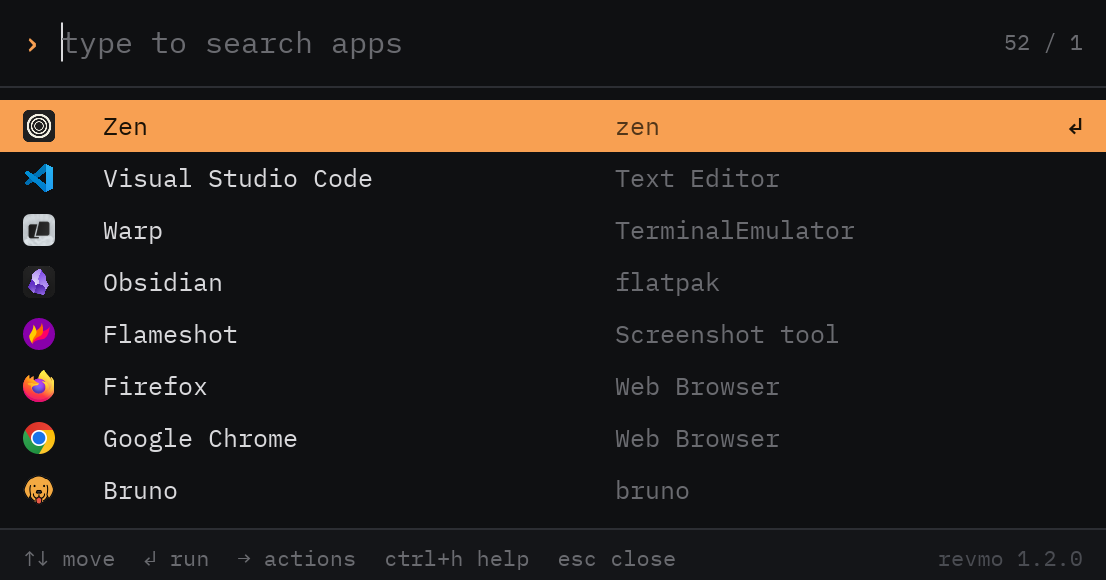
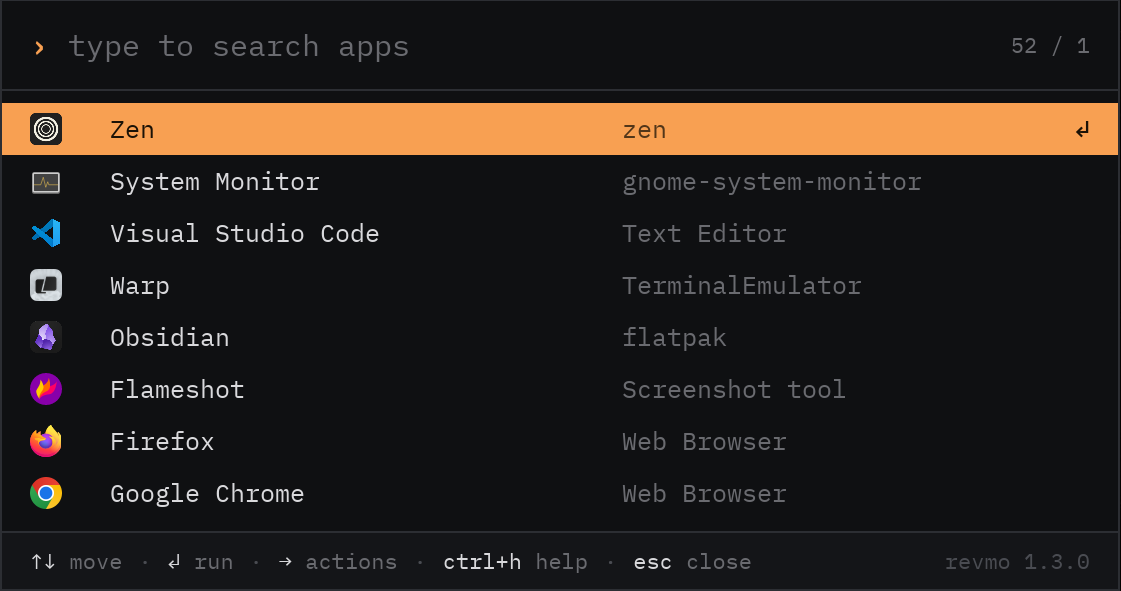
fix theme issues (#14)
* general fixes

* update version

diff --git a/src/theme.rs b/src/theme.rs
@@ -145,7 +145,8 @@ impl Colors {
             background,
             surface: get("Surface", shade(0.03)),
             surface_strong: get("SurfaceStrong", shade(0.07)),
-            frame: get("Frame", border),
+            // Dividers left out still leave the outline.
+            frame: get("Frame", if border.a == 0.0 { shade(0.14) } else { border }),
             border,
             border_strong: get("BorderStrong", shade(0.21)),
             text,
@@ -414,13 +415,25 @@ pub fn parse(contents: &str, fallback_name: &str) -> Result<ThemeDef, String> {
         .group(GROUP)
         .ok_or_else(|| format!("no [{GROUP}] group"))?;
     for key in KEYS {
-        if let Some(value) = group.raw(key)
-            && parse_color(value).is_none()
-        {
-            return Err(format!("{key}={value} is not a #rrggbb color"));
+        let Some(value) = group.raw(key) else {
+            continue;
+        };
+        if is_none(value) && key == "Background" {
+            return Err(
+                "Background can't be none; your compositor makes windows see-through".into(),
+            );
+        }
+        if !is_none(value) && parse_color(value).is_none() {
+            return Err(format!("{key}={value} is not a #rrggbb color or none"));
         }
     }
-    let given = |key: &str| group.raw(key).and_then(parse_color);
+    let given = |key: &str| {
+        let value = group.raw(key)?;
+        match is_none(value) {
+            true => Some(Color::TRANSPARENT),
+            false => parse_color(value),
+        }
+    };
     let required = |key: &str| given(key).ok_or_else(|| format!("{key} is missing"));
     // The window is opaque, so a see-through background would only come out
     // darker; its alpha is ignored.
@@ -436,6 +449,13 @@ pub fn parse(contents: &str, fallback_name: &str) -> Result<ThemeDef, String> {
         .filter(|n| !n.is_empty())
         .unwrap_or_else(|| fallback_name.trim().to_string());
     Ok(ThemeDef::new(name, colors))
+}
+
+/// `none` or `transparent`: not drawn at all, so the background shows in
+/// its place. Any color but the background can be.
+fn is_none(value: &str) -> bool {
+    let value = value.trim();
+    value.eq_ignore_ascii_case("none") || value.eq_ignore_ascii_case("transparent")
 }
 
 /// `#rrggbb` or `#rrggbbaa`.
@@ -529,6 +549,22 @@ mod tests {
     }
 
     #[test]
+    fn none_leaves_a_fill_out() {
+        let theme = parse(
+            "[Theme]\nBackground=#000000\nText=#ffffff\nAccent=#ff0000\nBorder=None\nSurface=transparent\nSelection=none",
+            "x",
+        )
+        .unwrap();
+        let c = theme.colors();
+        assert_eq!(c.border, Color::TRANSPARENT);
+        assert_eq!(c.surface, Color::TRANSPARENT);
+        assert_eq!(c.selection, Color::TRANSPARENT);
+        // No dividers still leaves the outline.
+        assert_eq!(c.frame.a, 1.0);
+        assert_eq!(c.background, rgb(0x000000));
+    }
+
+    #[test]
     fn rejects_bad_files() {
         assert!(parse("[Theme]\nBackground=#000000\nText=#ffffff", "x").is_err());
         assert!(
@@ -540,6 +576,8 @@ mod tests {
         );
         let bad_optional = "[Theme]\nBackground=#000000\nText=#ffffff\nAccent=#ff0000\nBorder=red";
         assert!(parse(bad_optional, "x").is_err());
+        let no_background = "[Theme]\nBackground=none\nText=#ffffff\nAccent=#ff0000";
+        assert!(parse(no_background, "x").is_err());
         assert!(parse("Background=#000000", "x").is_err());
     }
 

diff --git a/src/bundled_themes.rs b/src/bundled_themes.rs
@@ -104,28 +104,6 @@ pub const BUNDLED: [Bundled; 22] = [
         ],
     },
     Bundled {
-        name: "Dark",
-        background: 0x2b2d31,
-        text: 0xe6e6e6,
-        accent: 0xe0e3ff,
-        other: &[
-            ("Surface", 0x323539),
-            ("SurfaceStrong", 0x3c3f45),
-            ("Frame", 0x43474e),
-            ("Border", 0x43474e),
-            ("BorderStrong", 0x50545d),
-            ("TextDim", 0x979ba4),
-            ("TextMuted", 0x888a90),
-            ("TextFaint", 0x5d626d),
-            ("OnAccent", 0x2b2d31),
-            ("Selection", 0x5865f2),
-            ("OnSelection", 0xffffff),
-            ("Danger", 0xffc14e),
-            ("Success", 0x12664f),
-            ("Highlight", 0xffc14e),
-        ],
-    },
-    Bundled {
         name: "Dracula",
         background: 0x282a36,
         text: 0xf8f8f2,
@@ -214,6 +192,50 @@ pub const BUNDLED: [Bundled; 22] = [
         ],
     },
     Bundled {
+        name: "Iced Dark",
+        background: 0x2b2d31,
+        text: 0xe6e6e6,
+        accent: 0xe0e3ff,
+        other: &[
+            ("Surface", 0x323539),
+            ("SurfaceStrong", 0x3c3f45),
+            ("Frame", 0x43474e),
+            ("Border", 0x43474e),
+            ("BorderStrong", 0x50545d),
+            ("TextDim", 0x979ba4),
+            ("TextMuted", 0x888a90),
+            ("TextFaint", 0x5d626d),
+            ("OnAccent", 0x2b2d31),
+            ("Selection", 0x5865f2),
+            ("OnSelection", 0xffffff),
+            ("Danger", 0xffc14e),
+            ("Success", 0x12664f),
+            ("Highlight", 0xffc14e),
+        ],
+    },
+    Bundled {
+        name: "Iced Light",
+        background: 0xffffff,
+        text: 0x000000,
+        accent: 0x5865f2,
+        other: &[
+            ("Surface", 0xf5f5f5),
+            ("SurfaceStrong", 0xe8e8e8),
+            ("Frame", 0xdedede),
+            ("Border", 0xdedede),
+            ("BorderStrong", 0xcecece),
+            ("TextDim", 0x1a1a1a),
+            ("TextMuted", 0x7d7d7d),
+            ("TextFaint", 0xb1b1b1),
+            ("OnAccent", 0xffffff),
+            ("Selection", 0x5865f2),
+            ("OnSelection", 0xffffff),
+            ("Danger", 0xc3423f),
+            ("Success", 0x12664f),
+            ("Highlight", 0x12664f),
+        ],
+    },
+    Bundled {
         name: "Kanagawa Dragon",
         background: 0x181616,
         text: 0xc5c9c5,
@@ -277,28 +299,6 @@ pub const BUNDLED: [Bundled; 22] = [
             ("Danger", 0xff5d62),
             ("Success", 0x98bb6c),
             ("Highlight", 0xff9e3b),
-        ],
-    },
-    Bundled {
-        name: "Light",
-        background: 0xffffff,
-        text: 0x000000,
-        accent: 0x5865f2,
-        other: &[
-            ("Surface", 0xf5f5f5),
-            ("SurfaceStrong", 0xe8e8e8),
-            ("Frame", 0xdedede),
-            ("Border", 0xdedede),
-            ("BorderStrong", 0xcecece),
-            ("TextDim", 0x1a1a1a),
-            ("TextMuted", 0x7d7d7d),
-            ("TextFaint", 0xb1b1b1),
-            ("OnAccent", 0xffffff),
-            ("Selection", 0x5865f2),
-            ("OnSelection", 0xffffff),
-            ("Danger", 0xc3423f),
-            ("Success", 0x12664f),
-            ("Highlight", 0x12664f),
         ],
     },
     Bundled {

diff --git a/src/helpers.rs b/src/helpers.rs
@@ -78,9 +78,10 @@ pub fn app_row<'a>(
         RowState::Dimmed => (c.text_dim, c.text_muted),
         RowState::Normal | RowState::Marked => (c.text, c.text_muted),
     };
-    let matched = (!selected).then_some(c.highlight);
-    // Dimmed rows stay quiet so the marked row stands out.
-    let query = if state == RowState::Dimmed { "" } else { query };
+    // Dimmed rows stay quiet so the marked row stands out: their matches
+    // keep the semibold, so no text moves when the pane opens, but not the
+    // highlight color.
+    let matched = (!selected && state != RowState::Dimmed).then_some(c.highlight);
     let title_width = if full {
         styles::TITLE_WIDTH
     } else {
@@ -152,27 +153,22 @@ pub fn app_row<'a>(
         .height(styles::ROW_HEIGHT)
         .width(Fill)
         .align_y(Alignment::Center);
-    let body: Element<'a, Message> = match state {
-        RowState::Selected => content
-            .padding([0.0, styles::PAD_X])
-            .style(move |_| styles::selected(c))
-            .into(),
-        RowState::Marked => row![
-            container(Space::new())
-                .width(styles::MARK_WIDTH)
-                .height(styles::ROW_HEIGHT)
-                .style(move |_| styles::solid(c.accent)),
-            content
-                .padding([0.0, styles::PAD_X])
-                .style(move |_| styles::soft_selected(c)),
-        ]
-        .into(),
-        // Lined up with the text of a marked row.
-        RowState::Dimmed => content
-            .padding(Padding::from([0.0, styles::PAD_X]).left(styles::PAD_X + styles::MARK_WIDTH))
-            .into(),
-        RowState::Normal => content.padding([0.0, styles::PAD_X]).into(),
-    };
+    // Every row has the marker bar, in its left padding, and only a marked
+    // row colors it: opening the actions pane then moves nothing.
+    let mark = container(Space::new())
+        .width(styles::MARK_WIDTH)
+        .height(styles::ROW_HEIGHT)
+        .style(move |_| match state {
+            RowState::Marked => styles::solid(c.accent),
+            _ => container::Style::default(),
+        });
+    let content = content
+        .padding(Padding::from([0.0, styles::PAD_X]).left(styles::PAD_X - styles::MARK_WIDTH));
+    let body = container(row![mark, content]).style(move |_| match state {
+        RowState::Selected => styles::selected(c),
+        RowState::Marked => styles::soft_selected(c),
+        RowState::Normal | RowState::Dimmed => container::Style::default(),
+    });
     mouse_area(body)
         .on_press(Message::RunPress(app.key.clone()))
         .interaction(mouse::Interaction::Pointer)

diff --git a/src/styles.rs b/src/styles.rs
@@ -33,15 +33,16 @@ pub const ICON_SIZE: f32 = 16.0;
 pub const TAG_WIDTH: f32 = 40.0;
 pub const SECONDARY_WIDTH: f32 = 190.0;
 pub const SHORTCUT_WIDTH: f32 = 44.0;
-pub const PANE_WIDTH: f32 = 210.0;
+pub const PANE_WIDTH: f32 = 250.0;
 /// Room for result titles: what the window has left after the other
 /// columns, the paddings, the frame and an 8px gap.
 pub const TITLE_WIDTH: f32 =
     WINDOW_WIDTH - 2.0 - 2.0 * PAD_X - TAG_WIDTH - SECONDARY_WIDTH - SHORTCUT_WIDTH - 8.0;
 /// The same with the actions pane open.
 pub const PANE_TITLE_WIDTH: f32 =
-    WINDOW_WIDTH - 2.0 - PANE_WIDTH - 1.0 - 2.0 * PAD_X - MARK_WIDTH - TAG_WIDTH - 8.0;
-/// The accent bar on the left of the highlighted row in the actions pane.
+    WINDOW_WIDTH - 2.0 - PANE_WIDTH - 1.0 - 2.0 * PAD_X - TAG_WIDTH - 8.0;
+/// The accent bar on the left of the highlighted row in the actions pane,
+/// inside the row's left padding.
 pub const MARK_WIDTH: f32 = 2.0;
 
 /// The font family in its three weights.

diff --git a/README.md b/README.md
@@ -92,7 +92,13 @@ command to `revmo`, then click the empty binding and press your keys.
 <details>
 <summary><b>Hyprland</b></summary>
 
-In `~/.config/hypr/hyprland.conf`:
+In `~/.config/hypr/hyprland.lua` (Hyprland 0.55 and later):
+
+```lua
+hl.bind("SUPER + SPACE", hl.dsp.exec_cmd("revmo"))
+```
+
+Before 0.55, in `~/.config/hypr/hyprland.conf`:
 
 ```ini
 bind = SUPER, SPACE, exec, revmo
@@ -214,9 +220,9 @@ Accent=#b8bb26
 # A further step: the highlighted row while the actions pane is open, with
 # matched letters drawn on it.
 # SurfaceStrong=#2b2d2b
-# The window's outer border.
+# The window's outer border; none for no outline.
 # Frame=#3a3a35
-# Dividers between sections.
+# Dividers between sections; none for no dividers.
 # Border=#3a3a35
 # BorderStrong=#48473f
 # Secondary text, from most to least visible.
@@ -236,10 +242,38 @@ Accent=#b8bb26
 # Highlight=#b8bb26
 ```
 
-Colors are `#rrggbb`, or `#rrggbbaa` with transparency (except
-`Background`: the window itself is never see-through). Your theme
-replaces a bundled one with the same name, except Revmo Dark and Revmo
-Light.
+Colors can be written three ways:
+
+- `#rrggbb`: a solid color.
+- `#rrggbbaa`: a color mixed with what's under it in the window; the last
+  two digits go from `00` (invisible) to `ff` (solid). `Background` is
+  always solid. To see your desktop through Revmo, see
+  [Transparency](#transparency).
+- `none` (or `transparent`): not drawn, so the background shows in its
+  place. Any color but `Background` can be `none`: e.g. `Frame=none` for
+  no outline, `Border=none` for no dividers.
+
+Your theme replaces a bundled one with the same name, except Revmo Dark
+and Revmo Light.
+
+## Transparency
+
+Your compositor can make any window see-through, Revmo included. Its
+window class (X11) and app ID (Wayland) are both `revmo`, so one rule in
+your compositor's config does it:
+
+| Setup | Rule |
+|---|---|
+| Hyprland | In `hyprland.lua` (0.55+): `hl.window_rule({ match = { class = "^(revmo)$" }, opacity = "0.85" })`<br>In `hyprland.conf` (0.53–0.54): `windowrule = match:class ^(revmo)$, opacity 0.85` |
+| Sway | `for_window [app_id="revmo"] opacity 0.85` |
+| X11 with picom (i3, bspwm, …) | `rules = ( { match = "class_g = 'revmo'"; opacity = 0.85; } );`<br>(add the `{ … }` entry to your `rules` if you have them; before picom 12: `opacity-rule = [ "85:class_g = 'revmo'" ];`) |
+| KDE Plasma | System Settings → Window Management → Window Rules → Add New…; set Window class (application) to Exact Match `revmo`, then Add Property… → Active opacity and Inactive opacity (e.g. 85%) |
+| GNOME | Not built in; use a GNOME Shell extension that sets per-window opacity, matching `revmo` |
+
+The whole window fades, text included, so keep it readable: 0.85–0.95
+works well on most wallpapers. Blur behind the window is the
+compositor's too (Hyprland, KDE and picom can do it). Without a
+compositor (e.g. plain i3 with no picom), windows can't be see-through.
 
 ## Troubleshooting
 
